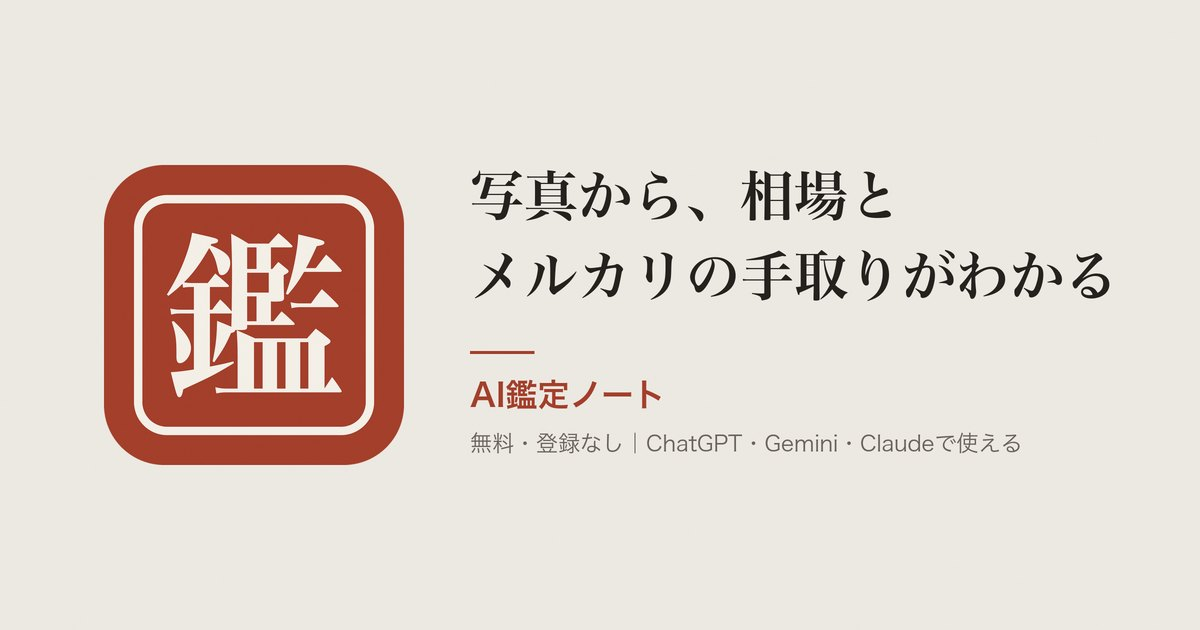
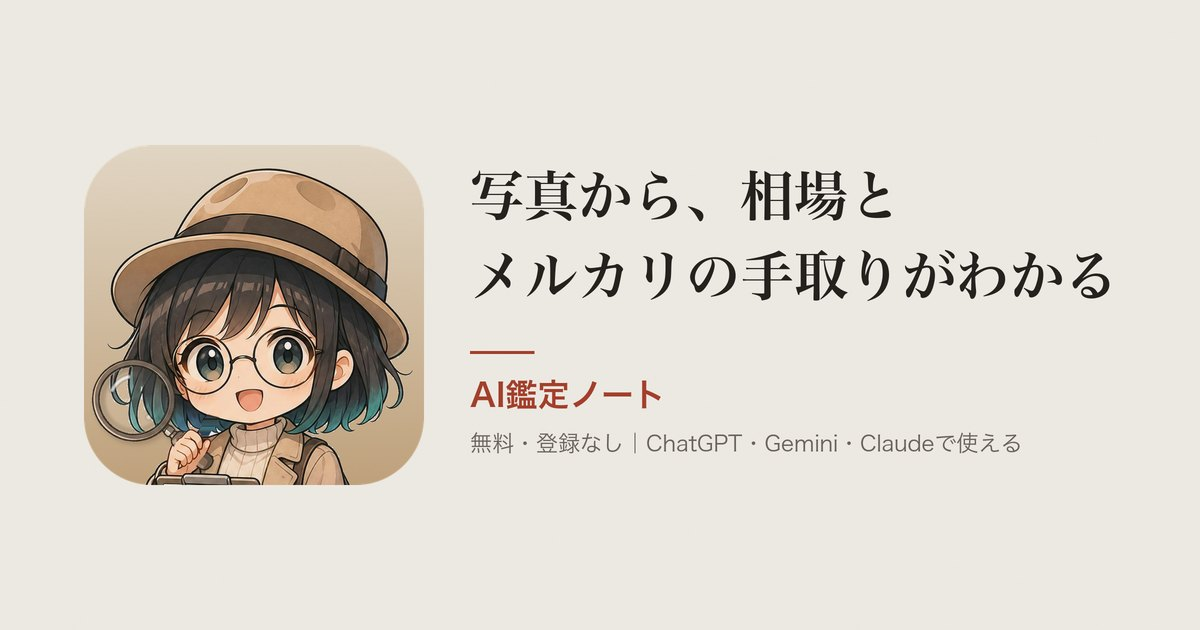
ヘッダーの印とSNS共有画像もキャラのアイコンにそろえる

Changed region(s): [[0.0617, 0.2111, 0.37, 0.7841]]

diff --git a/assets/style.css b/assets/style.css
@@ -126,13 +126,7 @@ svg { fill: none; stroke: currentColor; stroke-width: 1.6; stroke-linecap: round
   display: flex; align-items: center; justify-content: space-between; gap: 10px;
 }
 .brand { display: flex; align-items: center; gap: 10px; text-decoration: none; }
-.mark {
-  width: 32px; height: 32px; border-radius: 7px; flex: none;
-  display: grid; place-items: center;
-  background: var(--acc); color: var(--acc-ink);
-  font-family: var(--serif); font-weight: 600; font-size: 17px; line-height: 1;
-  box-shadow: inset 0 0 0 2px var(--acc), inset 0 0 0 3px rgba(255, 255, 255, .28);
-}
+.mark { width: 34px; height: 34px; border-radius: 9px; flex: none; display: block; box-shadow: var(--sh-1); }
 .bname { font-weight: 650; font-size: 16px; letter-spacing: .03em; }
 .topnav { display: flex; align-items: center; gap: 4px; }
 .toplink { font-size: 13.5px; color: var(--fg2); text-decoration: none; padding: 8px 10px; border-radius: 10px; }

diff --git a/sw.js b/sw.js
@@ -4,12 +4,12 @@
    ⚠ karasui1014.github.io は、ほかのツールと同じオリジン。caches.keys() にはほかのツールの
       キャッシュも並ぶので、消すのは自分の接頭辞（kantei-note-）のものだけにすること */
 const PREFIX = 'kantei-note-';
-const CACHE = PREFIX + 'v3';
+const CACHE = PREFIX + 'v4';
 const ASSETS = [
   './', './index.html', './manifest.webmanifest',
   './assets/style.css', './assets/data.js', './assets/core.js', './assets/store.js', './assets/app.js',
   './assets/icons/icon-192.png', './assets/icons/icon-512.png', './assets/icons/apple-touch-icon.png',
-  './assets/icons/favicon-32.png',
+  './assets/icons/favicon-32.png', './assets/icons/favicon-192.png',
 ];
 
 self.addEventListener('install', e => {

diff --git a/index.html b/index.html
@@ -50,7 +50,7 @@
 <body>
 <header class="top">
   <a class="brand" href="#/" aria-label="AI鑑定ノート ホームへ">
-    <span class="mark" aria-hidden="true">鑑</span>
+    <img class="mark" src="./assets/icons/favicon-192.png" alt="" width="32" height="32">
     <span class="bname">AI鑑定ノート</span>
   </a>
   <nav class="topnav" aria-label="メニュー">

diff --git a/tools/make_icons.py b/tools/make_icons.py
@@ -2,7 +2,7 @@
 """AI鑑定ノートの、SNSで共有されたときの画像（OGP・assets/og.jpg）を作る。
 
 アプリのアイコンとファビコンは tools/make_chara_icons.py（ローファイ探偵の絵）で作る。
-このスクリプトは角印の絵を OGP 画像の中でだけ使う。
+OGP画像の左には、そのアイコン（assets/icons/icon-512.png）を置く。先に make_chara_icons.py を実行すること。
 
 使い方（プロジェクト直下で）:
     python3 tools/make_icons.py
@@ -106,9 +106,9 @@ def og_image():
     W, H = 1200, 630
     img = Image.new("RGB", (W * 2, H * 2), BG)
     d = ImageDraw.Draw(img)
-    # 左に角印
-    mark = seal(300 * 2)
-    img.paste(mark, (104 * 2, (H - 300)), mark)
+    # 左にアプリのアイコン（tools/make_chara_icons.py で作ったキャラの絵）
+    mark = Image.open(os.path.join(ICONS, "icon-512.png")).convert("RGBA").resize((340 * 2, 340 * 2), Image.LANCZOS)
+    img.paste(mark, (84 * 2, (H - 340)), mark)
     x = 470 * 2
     title = mincho(54 * 2)
     d.text((x, 168 * 2), "写真から、相場と", font=title, fill=INK)
